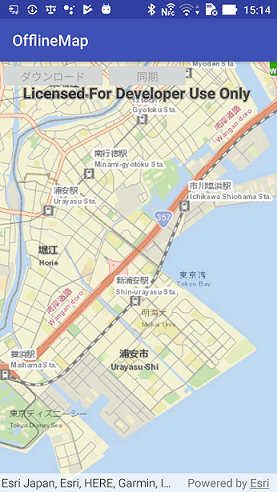
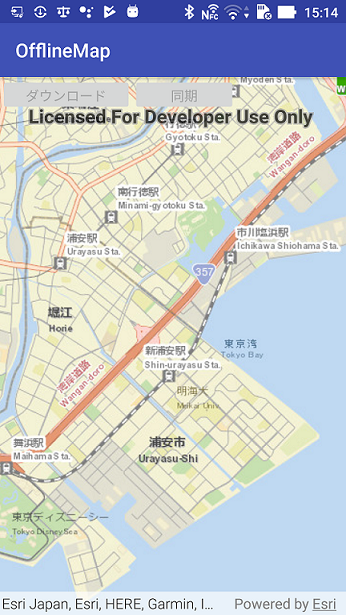
updateAndroidApp

diff --git a/offlinemap-app-hands-on/hands-on/Android/doc.md b/offlinemap-app-hands-on/hands-on/Android/doc.md
@@ -24,12 +24,12 @@
 
 ## 手順 1: プロジェクトのダウンロード
 ### サンプル プロジェクトのダウンロード
- 1. [workshops](https://github.com/EsriJapan/workshops) ページを開いて [Clone or download] -> [Download ZIP] をクリックして、ファイル一式をダウンロードします。
+1. [workshops](https://github.com/EsriJapan/workshops) ページを開いて [Clone or download] -> [Download ZIP] をクリックして、ファイル一式をダウンロードします。
  <img src="./img/1-1.png" width="500px">
- 1. サンプル プロジェクト（workshops/offlinemap-app-hands-on/samples/Android/offlineMap）を Android Studio で開きます。
+1. サンプル プロジェクト（workshops/offlinemap-app-hands-on/samples/Android/offlineMap）を Android Studio で開きます。
 
- 1. Android Studio によるプロジェクト ビルドが終了したら、エミュレータまたは実機をつなげてアプリを実行してみましょう。次のような画面が表示されます。
- <img src="./img/1-2.png" width="500px">
+1. Android Studio によるプロジェクト ビルドが終了したら、エミュレータまたは実機をつなげてアプリを実行してみましょう。次のような画面が表示されます。
+ <img src="./img/1-2.png" width="200px">
 
 #### Tips:
 * SDK は Gradle へ参照先を明記して使用しますが、SDKの[ダウンロードページ](https://developers.arcgis.com/downloads)から jar ファイルをダウンロードして使用することも可能です。その場合はプロジェクト直下にlibフォルダを作成し、Gradle ファイルに以下のように定義します。なお、jarファイルをダウンロードする場合は開発者アカウントが必要になります。作成する場合は、[こちら](http://esrijapan.github.io/arcgis-dev-resources/get-dev-account/)を参考にして作成してください）。
